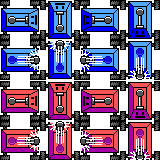
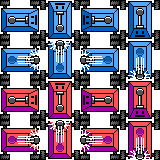
More tweaks

diff --git a/app/models/match.rb b/app/models/match.rb
@@ -3,17 +3,17 @@ class Match
 
   def initialize(bots)
     @map = [
-      [1,0,0,0,9,0,0,0],
-      [0,0,0,9,0,0,0,0],
-      [0,0,0,0,0,0,0,0],
-      [0,0,9,9,9,9,0,0],
-      [0,0,0,0,0,0,0,0],
-      [0,0,0,9,9,0,0,0],
-      [0,0,0,0,0,0,0,0],
-      [0,9,0,0,0,0,0,1]
+      [1,0,0,9,0,0,0,0,0,0],
+      [0,0,0,9,0,0,0,9,0,0],
+      [0,0,1,9,0,0,0,0,0,0],
+      [9,9,9,9,0,0,0,0,0,0],
+      [0,0,0,0,0,0,0,0,0,0],
+      [0,0,0,0,0,0,0,0,0,0],
+      [0,0,0,0,0,0,0,0,0,0],
+      [0,0,0,0,0,0,0,0,0,0],
+      [0,0,9,0,0,0,0,9,0,0],
+      [0,0,0,0,0,0,0,0,0,0]
     ]
-    @map_width = 7
-    @map_height = 7
     @bots = bots
     @bot_keys = []
   end
@@ -48,7 +48,7 @@ class Match
         bots.each do |b|
           if b.dead?
             Rails.logger.debug "Game over! #{b.name} is dead"
-            MasterChannel.game_over()
+            MasterChannel.game_over(other_bot(b))
             Match.remove
             Thread.exit
           end
@@ -58,13 +58,12 @@ class Match
         next_bot = bots[next_move_by]
         if next_bot.result.present?
           MatchChannel.broadcast_to(next_bot, 'action' => 'response', 'result' => next_bot.result.to_s)
+          MasterChannel.update(bots, @map)
           next_bot.result = nil
           next_bot.save
         end
 
         REDIS.set('rubot_last_move', next_move_by)
-
-        MasterChannel.update(bots, @map)
 
         sleep 1
       end
@@ -72,71 +71,46 @@ class Match
 
   end
 
+  def scan2(bot, dx, dy)
+    front_tile = @map[bot.y + dy][bot.x + dx]
+    if front_tile == 0 || front_tile == 1
+      ob = other_bot(bot)
+      if (ob.x == bot.x + dx) && (ob.y == bot.y + dy)
+        return :enemy
+      else
+        return :empty
+      end
+    elsif front_tile == 9
+      return :wall
+    end
+  end
+
+
   def scan(bot)
     case bot.direction
     when 'left'
       if bot.x == 0
         return :wall
       else
-        front_tile = @map[bot.y][bot.x - 1]
-        if front_tile == 0 || front_tile == 1
-          op = other_bot(bot)
-          if op.x == bot.x - 1 && op.y = bot.y
-            return :enemy
-          else
-            return :empty
-          end
-        elsif front_tile == 9
-          return :wall
-        end
+        return scan2(bot, -1, 0)
       end
     when 'right'
-      if bot.x == @map_width
+      if bot.x == @map.first.count - 1
         return :wall
       else
-        front_tile = @map[bot.y][bot.x + 1]
-        if front_tile == 0 || front_tile == 1
-          op = other_bot(bot)
-          if op.x == bot.x + 1 && op.y = bot.y
-            return :enemy
-          else
-            return :empty
-          end
-        elsif front_tile == 9
-          return :wall
-        end
+        return scan2(bot, 1, 0)
       end
     when 'up'
       if bot.y == 0
         return :wall
       else
-        front_tile = @map[bot.y - 1][bot.x]
-        if front_tile == 0 || front_tile == 1
-          op = other_bot(bot)
-          if op.x == bot.x && op.y = bot.y - 1
-            return :enemy
-          else
-            return :empty
-          end
-        elsif front_tile == 9
-          return :wall
-        end
+        return scan2(bot, 0, -1)
       end
     when 'down'
-      if bot.y == @map_height
+      if bot.y == @map.count - 1
         return :wall
       else
-        front_tile = @map[bot.y + 1][bot.x]
-        if front_tile == 0 || front_tile == 1
-          op = other_bot(bot)
-          if op.x == bot.x && op.y = bot.y + 1
-            return :enemy
-          else
-            return :empty
-          end
-        elsif front_tile == 9
-          return :wall
-        end
+        return scan2(bot, 0, 1)
       end
     else
       puts "Unknown bot direction: #{bot.direction}"
@@ -144,9 +118,7 @@ class Match
   end
 
   def fire(bot)
-    if scan(bot) == :enemy
-      damage(other_bot(bot))
-    end
+    damage(other_bot(bot)) if scan(bot) == :enemy
     bot.result = true
     bot.save
   end
@@ -165,17 +137,16 @@ class Match
       when 'left'
         move(bot, -1, 0)
       when 'right'
-        move(bot, +1, 0)
+        move(bot, 1, 0)
       when 'up'
         move(bot, 0, -1)
       when 'down'
-        move(bot, 0, +1)
+        move(bot, 0, 1)
       end
     end
   end
 
   def turn(bot, direction)
-    @last_move_key = bot.key
     bot.turn(direction)
     bot.result = true
     bot.save

diff --git a/app/channels/master_channel.rb b/app/channels/master_channel.rb
@@ -13,7 +13,20 @@ class MasterChannel < ApplicationCable::Channel
     broadcast_to 'all', { status: 'update', bots: bots, map: map }
   end
 
-  def self.game_over()
-    broadcast_to 'all', { status: 'game_over' }
+  def self.turn(bot, direction)
+    broadcast_to 'all', { status: 'turn', bot: bot, direction: direction }
+  end
+
+  def self.scan(bot)
+    broadcast_to 'all', { status: 'scan', bot: bot }
+  end
+
+  def self.fire(bot)
+    broadcast_to 'all', { status: 'fire', bot: bot }
+  end
+
+
+  def self.game_over(bot)
+    broadcast_to 'all', { status: 'game_over', winner: bot }
   end
 end

diff --git a/app/models/bot.rb b/app/models/bot.rb
@@ -1,6 +1,6 @@
 class Bot
   attr_reader :name, :key
-  attr_accessor :x, :y, :direction, :result, :lives
+  attr_accessor :x, :y, :direction, :result, :lives, :action
 
   DIRECTIONS = %w(left up right down)
 
@@ -35,7 +35,6 @@ class Bot
         new_index = 0
       end
     end
-    puts "New directoion index: #{new_index}"
     @direction = DIRECTIONS[new_index]
   end
 
